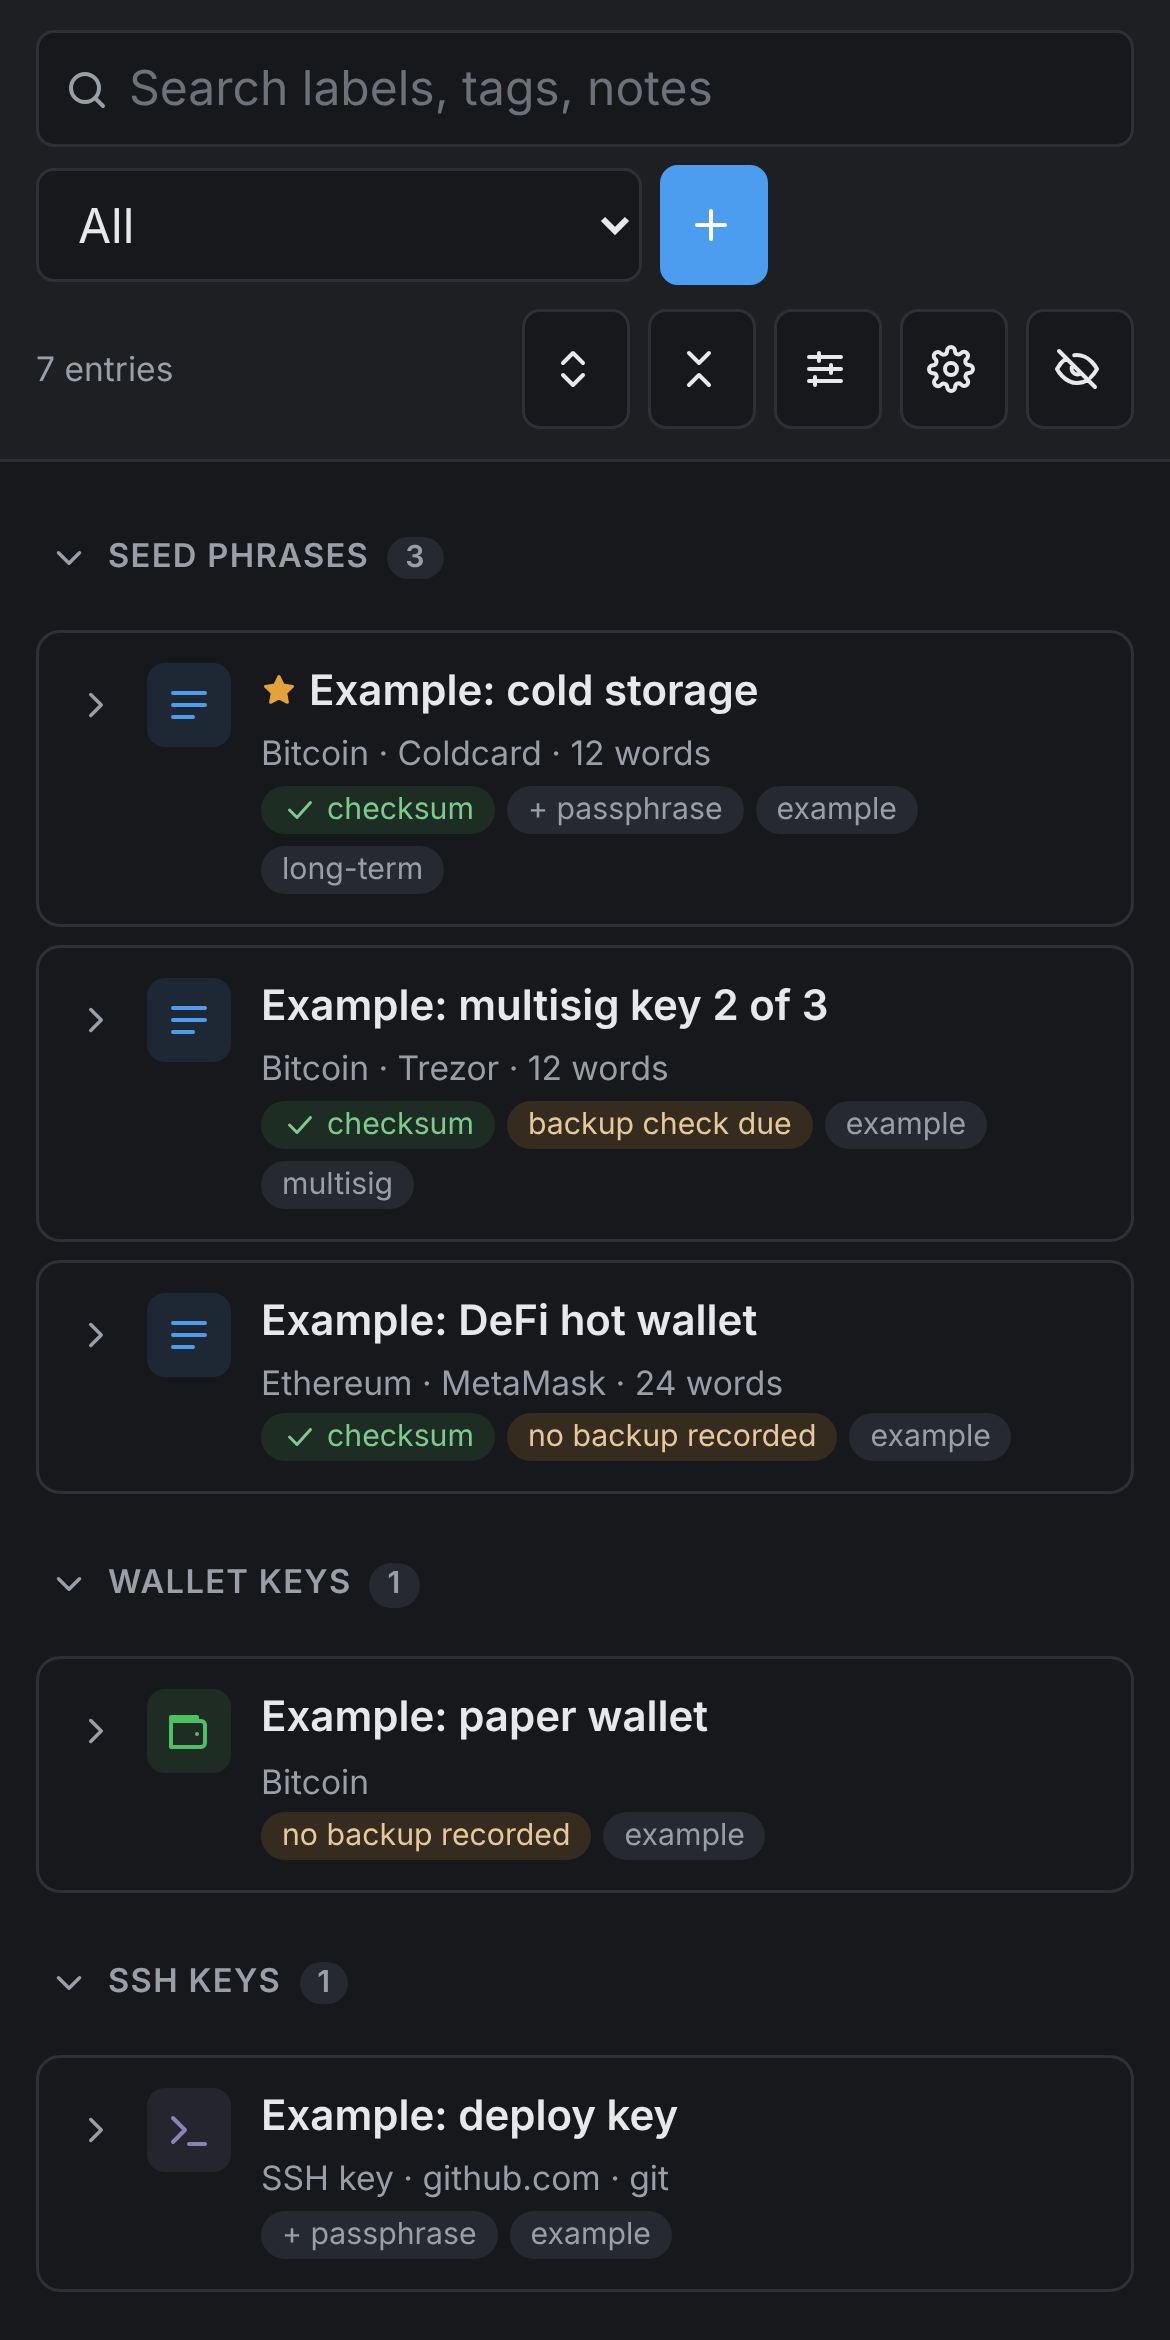
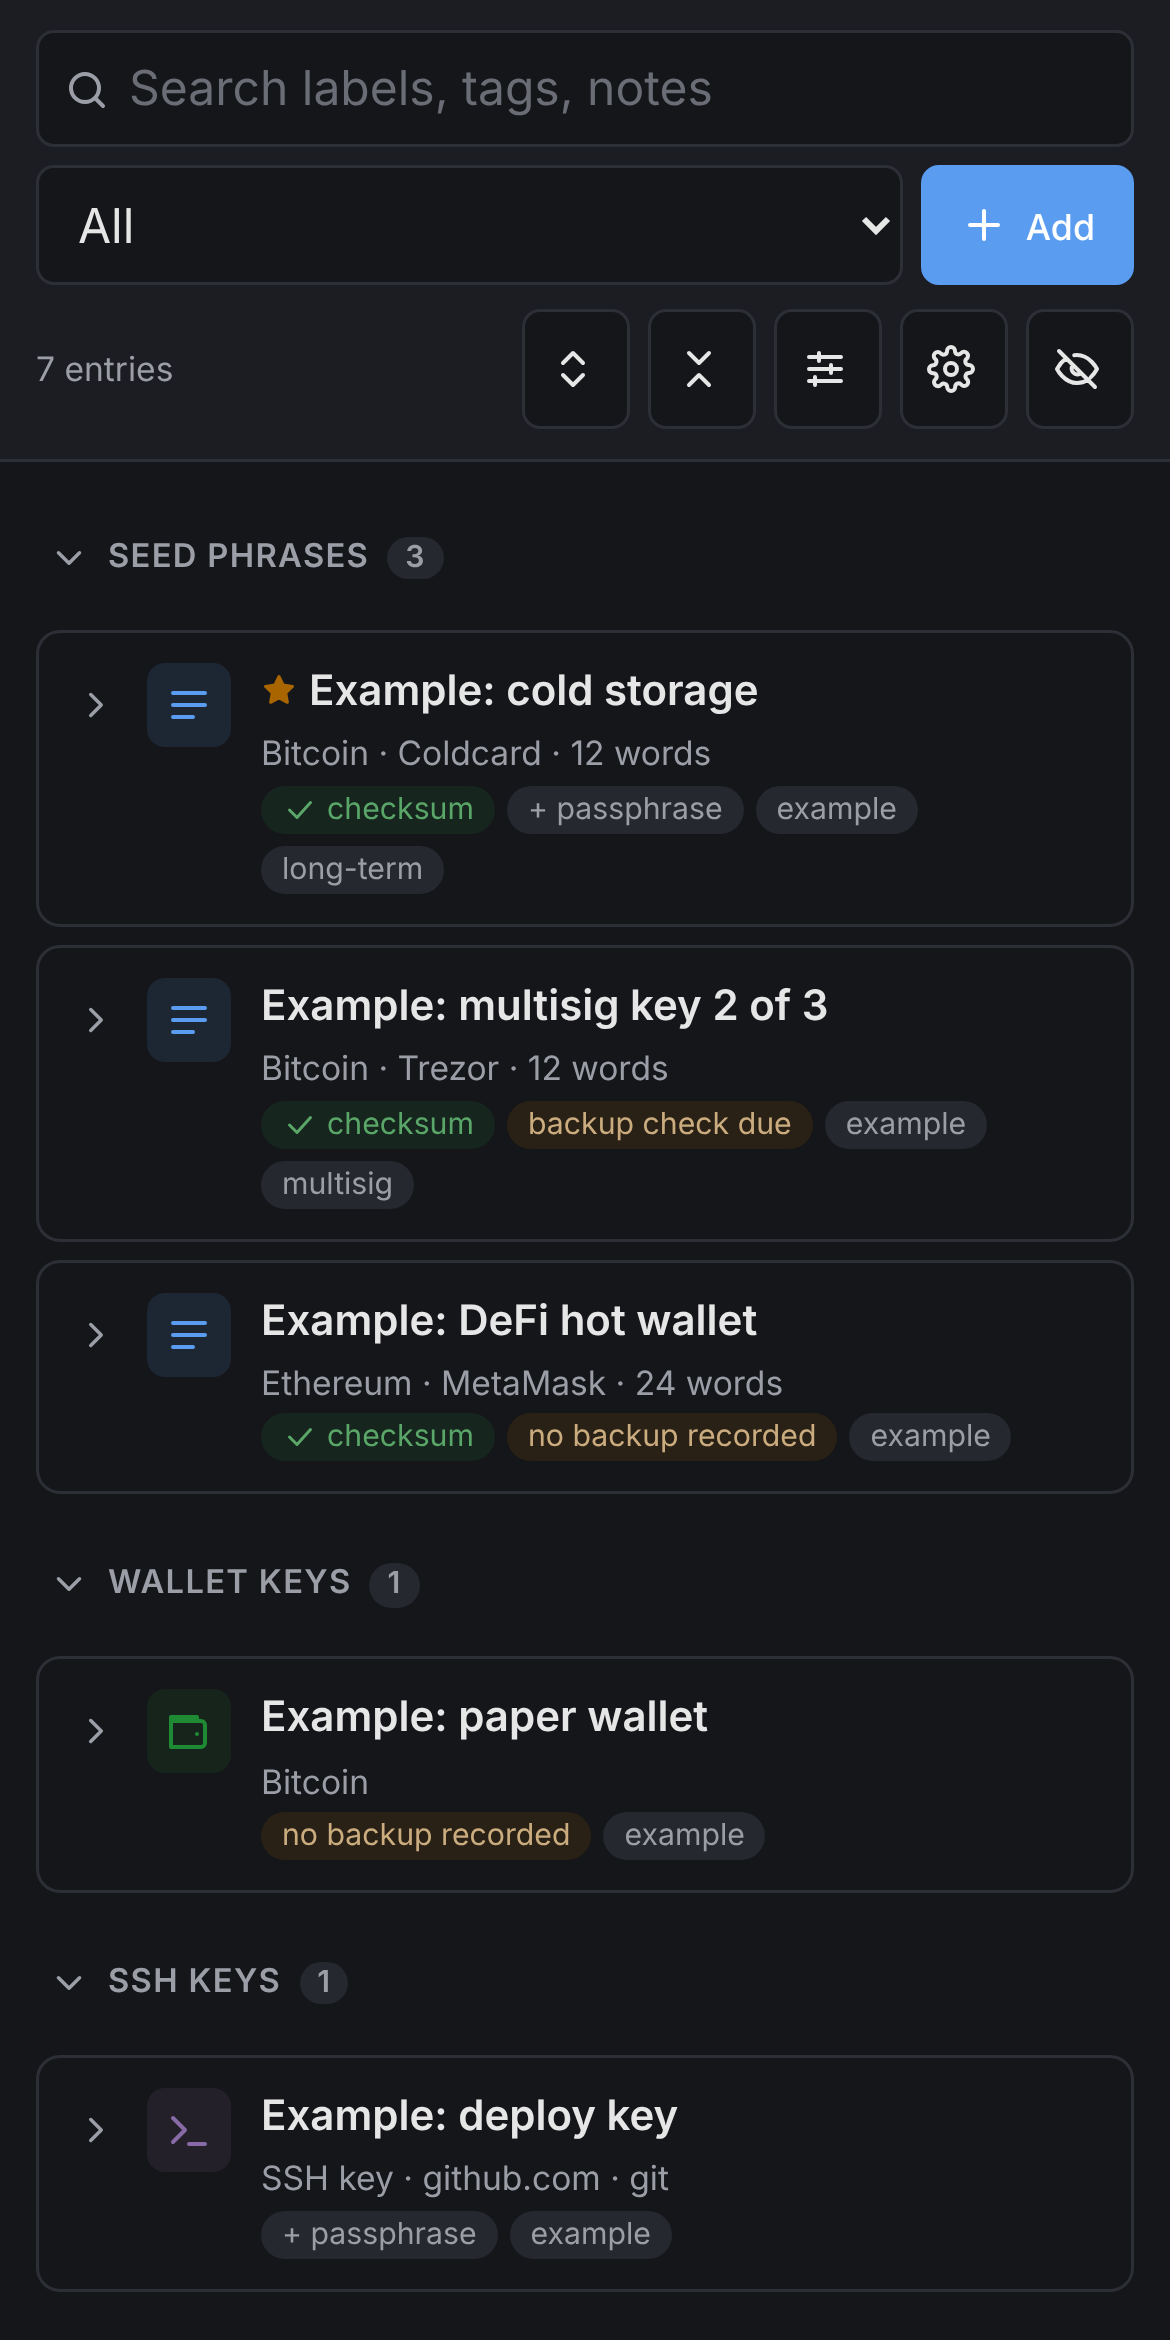
Fit Add on phones and offer every entry type in an empty vault
On phones the filter now fills the row next to Add, which keeps its label
and matches the filter's height, instead of a large lone + button. An
empty vault lists all eight entry types to start with, not only seed
phrases and wallet keys, so it doesn't look crypto-only. The mock host
takes ?themeUrl= to try third-party themes, and the README's phone
screenshot shows the new toolbar.

diff --git a/e2e/editor.spec.ts b/e2e/editor.spec.ts
@@ -886,7 +886,7 @@ test('stores an SSH key and an expiring API token alongside crypto entries', asy
 
   // The Add menu lists crypto first.
   await app.getByRole('button', { name: 'Add' }).click()
-  const groups = await app.getByRole('group').evaluateAll((els) => els.map((el) => el.getAttribute('aria-label')))
+  const groups = await app.locator('.popover').getByRole('group').evaluateAll((els) => els.map((el) => el.getAttribute('aria-label')))
   expect(groups).toEqual(['Crypto', 'Keys', 'Secrets'])
   await app.locator('.popover').getByRole('button', { name: 'SSH key', exact: true }).click()
   await app.getByLabel('Label').fill('Deploy key')
@@ -1029,4 +1029,39 @@ test('restore can be cancelled, is offered only while editing is allowed, and su
   await app.getByRole('button', { name: 'Restore a backup file' }).click()
   await expect(app.getByText(/may not let plugins open files/)).toBeVisible()
   await expect(app.getByLabel('Backup text')).toBeVisible()
+})
+
+test('an empty vault offers every type of entry, not only crypto ones', async ({ page }) => {
+  const { app, errors } = await open(page)
+  const choices = app.getByRole('group', { name: 'Add your first entry' }).getByRole('button')
+  await expect(choices).toHaveText([
+    'Seed phrase',
+    'Wallet key',
+    'SSH key',
+    'PGP key',
+    'API key or token',
+    'Other key',
+    'Recovery codes',
+    'Other secret',
+  ])
+  await choices.filter({ hasText: 'Recovery codes' }).click()
+  await expect.poll(async () => (await noteJson(page))?.vault?.entries?.map((e: any) => e.kind)).toEqual(['recoveryCodes'])
+  await expect(app.getByRole('group', { name: 'Add your first entry' })).toHaveCount(0)
+  expect(errors).toEqual([])
+})
+
+test('on phones, Add keeps its label and sits next to the filter at the same height', async ({ page }) => {
+  test.skip(test.info().project.name === 'desktop', 'phone layout only')
+  const { app } = await open(page, '', { themeUrl: '/dev/dark-theme.css' })
+  const search = await app.getByRole('searchbox', { name: 'Search' }).boundingBox()
+  const filter = await app.getByRole('combobox', { name: 'Filter' }).boundingBox()
+  const add = app.getByRole('button', { name: 'Add', exact: true })
+  await expect(add.getByText('Add', { exact: true })).toBeVisible()
+  const box = (await add.boundingBox())!
+  // Search has its own row; the filter fills the next one, next to Add.
+  expect(filter!.y).toBeGreaterThan(search!.y + search!.height - 1)
+  expect(Math.abs(box.y - filter!.y)).toBeLessThanOrEqual(1)
+  expect(Math.abs(box.height - filter!.height)).toBeLessThanOrEqual(1)
+  expect(box.x + box.width).toBeLessThanOrEqual(search!.x + search!.width + 1)
+  expect(filter!.width).toBeGreaterThan(box.width)
 })

diff --git a/src/ui/App.tsx b/src/ui/App.tsx
@@ -7,8 +7,10 @@ import { EntryStack } from './EntryStack'
 import { Toolbar, type ViewPrefs } from './Toolbar'
 import { Settings } from './Settings'
 import { RestoreBackup } from './RestoreBackup'
+import { KIND_ICONS, KIND_LABELS } from './labels'
 import { ConfirmDialog, ConnectingScreen, type DialogState, ForeignScreen, LockScreen, NewerScreen, type ToastItem, Toasts, UnsupportedScreen } from './Screens'
 import { BIP39_ENGLISH } from '../lib/wordlist'
+import { KINDS } from '../lib/kinds'
 import { clearClipboard, clearClipboardNow, copyText } from '../lib/clipboard'
 import {
   type EncryptedBlob,
@@ -728,20 +730,20 @@ export const App = ({ host }: { host: Host }) => {
         <strong>No keys yet.</strong>
       </p>
       <p class="small muted">
-        Keep every seed phrase and wallet key in this note, plus SSH, PGP and API keys and recovery codes. Each one folds
-        into a single line until you open it, and secrets stay hidden until you reveal them.
+        Keep crypto seed phrases and wallet keys here, and also SSH, PGP and API keys, recovery codes and any other
+        secret. Each one folds into a single line until you open it, and secrets stay hidden until you reveal them.
       </p>
       {!readOnly && (
         <>
-          <div class="row tight center">
-            <button type="button" class="button primary small" onClick={() => addEntry('mnemonic')}>
-              <Icon name="plus" /> Seed phrase
-            </button>
-            <button type="button" class="button small" onClick={() => addEntry('privateKey')}>
-              <Icon name="plus" /> Wallet key
-            </button>
+          <p class="small">What do you want to add first?</p>
+          <div class="kind-choices" role="group" aria-label="Add your first entry">
+            {KINDS.map((kind) => (
+              <button type="button" class="button small" onClick={() => addEntry(kind)}>
+                <Icon name={KIND_ICONS[kind]} /> {KIND_LABELS[kind]}
+              </button>
+            ))}
           </div>
-          <p class="small muted">Other key types are under Add.</p>
+          <p class="small muted">Add more of any type later with the Add (+) button.</p>
           <p class="small">
             <button type="button" class="link-button" onClick={() => setRestoring(true)}>
               Restore a backup file

diff --git a/src/styles.css b/src/styles.css
@@ -672,6 +672,22 @@ select.input {
   justify-content: center;
   margin-top: 12px;
 }
+/* The first entry: every type, so a new vault doesn't look crypto-only. */
+.kind-choices {
+  display: grid;
+  grid-template-columns: repeat(auto-fill, minmax(150px, 1fr));
+  gap: 6px;
+  max-width: 640px;
+  margin: 8px auto 10px;
+}
+.kind-choices .button {
+  justify-content: flex-start;
+  white-space: normal;
+  text-align: left;
+}
+.kind-choices svg {
+  flex: none;
+}
 .placeholder {
   height: 100%;
   display: flex;
@@ -1125,6 +1141,24 @@ a.button {
   .toolbar .button {
     padding: 5px 8px;
   }
+  /* Search gets a row of its own. The filter fills the next one, and Add keeps
+     its label there: the empty vault refers to it. */
+  .toolbar .search {
+    flex-basis: 100%;
+  }
+  .toolbar .filter {
+    flex: 1 1 0;
+    min-width: 0;
+  }
+  .toolbar .add-button .button-text {
+    display: inline;
+  }
+  .toolbar .add-button {
+    padding: 5px 12px;
+  }
+  .kind-choices {
+    grid-template-columns: repeat(2, minmax(0, 1fr));
+  }
 }
 
 @media (max-width: 760px) {
@@ -1207,7 +1241,8 @@ a.button {
 /* Touch screens: targets of at least 40 px. */
 @media (pointer: coarse) {
   .button,
-  .toolbar .button {
+  .toolbar .button,
+  .toolbar select.input {
     min-height: 40px;
   }
   .toolbar .button {

diff --git a/src/ui/Toolbar.tsx b/src/ui/Toolbar.tsx
@@ -52,7 +52,7 @@ export const Toolbar = (p: Props) => {
             spellcheck={false}
           />
         </div>
-        <select class="input" aria-label="Filter" value={p.filter} onChange={(e) => p.onFilter(e.currentTarget.value as Filter)}>
+        <select class="input filter" aria-label="Filter" value={p.filter} onChange={(e) => p.onFilter(e.currentTarget.value as Filter)}>
           {FILTERS.map(([id, label]) => (
             <option value={id}>
               {label}
@@ -61,7 +61,7 @@ export const Toolbar = (p: Props) => {
           ))}
         </select>
         {!p.readOnly && (
-          <Popover label="Add" icon="plus" kind="menu" buttonClass="button small primary">
+          <Popover label="Add" icon="plus" kind="menu" buttonClass="button small primary add-button">
             {(close) =>
               ADD_GROUPS.map((group) => (
                 <div role="group" aria-label={GROUP_LABELS[group]} class="menu-group">

diff --git a/dev/host.js b/dev/host.js
@@ -20,7 +20,7 @@ const state = {
   },
   saves: [],
   contextMessage: null,
-  theme: params.get('theme') === 'dark',
+  theme: params.get('theme') === 'dark' || params.has('themeUrl'),
 }
 window.mockHost = state
 // Lets tests stream arbitrary text, e.g. a revision restored from note history.
@@ -88,6 +88,8 @@ let darkThemeData
 
 const themeUrls = async () => {
   if (!state.theme) return []
+  // ?themeUrl=<stylesheet>: any theme, e.g. a third-party one from its own site.
+  if (params.get('themeUrl')) return [params.get('themeUrl')]
   if (mobile === 'file') return ['file:///android_asset/Web.bundle/src/web-src/components/assets/org.standardnotes.theme-focus/index.css']
   if (mobile) {
     darkThemeData ??= fetch(darkThemeUrl)
